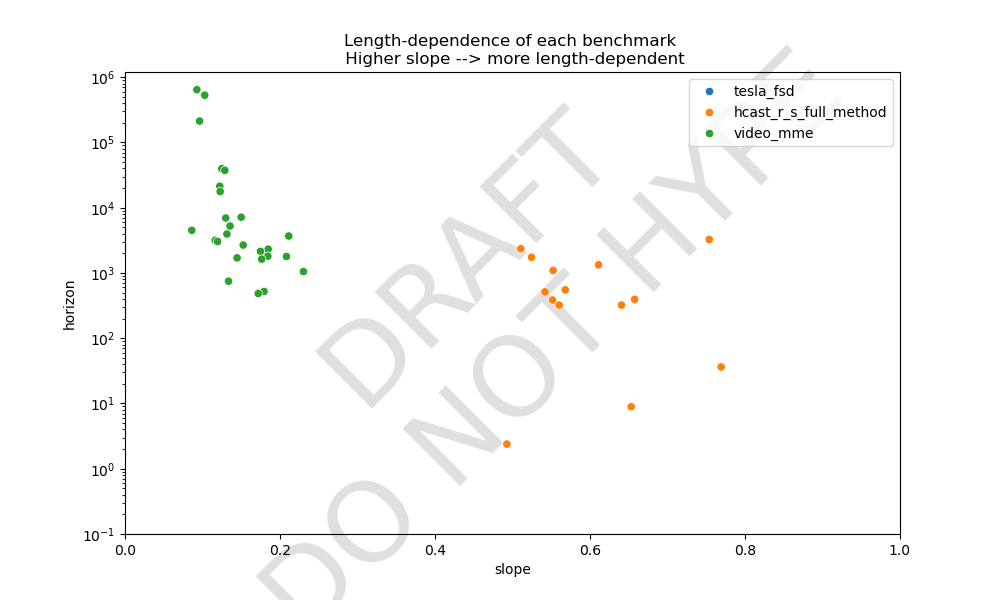
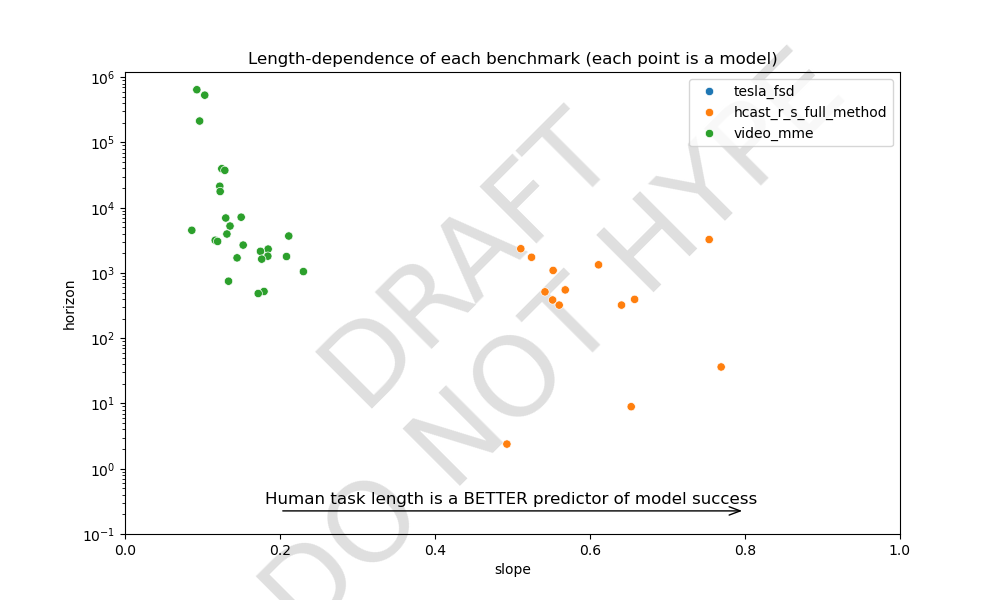
graph formatting and more release dates

Changed region(s): [[0.248, 0.81, 0.775, 0.87], [0.248, 0.06, 0.775, 0.12]]

diff --git a/plots.py b/plots.py
@@ -7,6 +7,7 @@ import matplotlib.ticker as mticker
 import numpy as np
 import os
 import pandas as pd
+import matplotlib.patches as mpatches
 import pathlib
 import seaborn as sns
 import toml
@@ -341,6 +342,12 @@ def plot_length_dependence(df: pd.DataFrame, output_file: pathlib.Path):
 
     df_to_use = df[df['benchmark'].isin(benchmarks_to_use)]
 
+    arr = mpatches.FancyArrowPatch((0.2, 0.05), (0.8, 0.05),
+                               arrowstyle='->,head_width=.15', mutation_scale=20,
+                               transform=ax.transAxes)
+    ax.add_patch(arr)
+    ax.annotate("Human task length is a BETTER predictor of model success", (.5, 1), xycoords=arr, ha='center', va='bottom', fontsize=12)
+
 
     sns.scatterplot(data=df_to_use, y='horizon', x='slope', hue='benchmark', ax=ax)
 
@@ -349,7 +356,7 @@ def plot_length_dependence(df: pd.DataFrame, output_file: pathlib.Path):
     ax.set_xlim(0, 1)
     ax.set_yscale('log')
     ax.set_ylim(bottom=0.1)
-    ax.set_title("Length-dependence of each benchmark \n Higher slope --> more length-dependent")
+    ax.set_title("Length-dependence of each benchmark (each point is a model)")
     ax.legend()
 
     plt.savefig(output_file)

diff --git a/scratch.py b/scratch.py
@@ -2,20 +2,26 @@
 
 import toml
 import numpy as np
+import pandas as pd
 
 # Read the TOML file
-with open("data/benchmarks/hcast_r_s.toml", "r") as f:
-    data = toml.load(f)
+with open("data/all_data.csv", "r") as f:
+    df = pd.read_csv(f)
 
-# Get the lengths array
-lengths = data["lengths"]
+# %%
 
-# Calculate percentiles (10th through 90th in multiples of 10)
-percentiles = [10, 20, 30, 40, 50, 60, 70, 80, 90]
-results = np.percentile(lengths, percentiles)
+df.head()
 
-# Print the results
-for p, value in zip(percentiles, results):
-    print(f"{p}th percentile: {value:.4f}")
+# %%
+
+aime_models = df[df["aime"].notna()]
+
+hendrycks_models = df[df["hendrycks_math"].notna()]
+# %%
+aime_models.head()
+
+# %%
+
+hendrycks_models.head()
 
 # %%

diff --git a/hendrycks_math.py b/hendrycks_math.py
@@ -16,7 +16,12 @@ source = "nlile/math_benchmark_test_saturation"
 ds = load_dataset(source)["train"]
 
 # Get the scores for each model
-scores = {}
+scores = {
+    "GPT-3 175B": 5.2,
+    "GPT-4o": 76.6,
+    "Claude 3.5 Sonnet": 71.1,
+
+}
 for i, row in enumerate(ds):
     # bsaelines have no code, so it's unfair to use code
     if "w/ code" in row["model"]:
